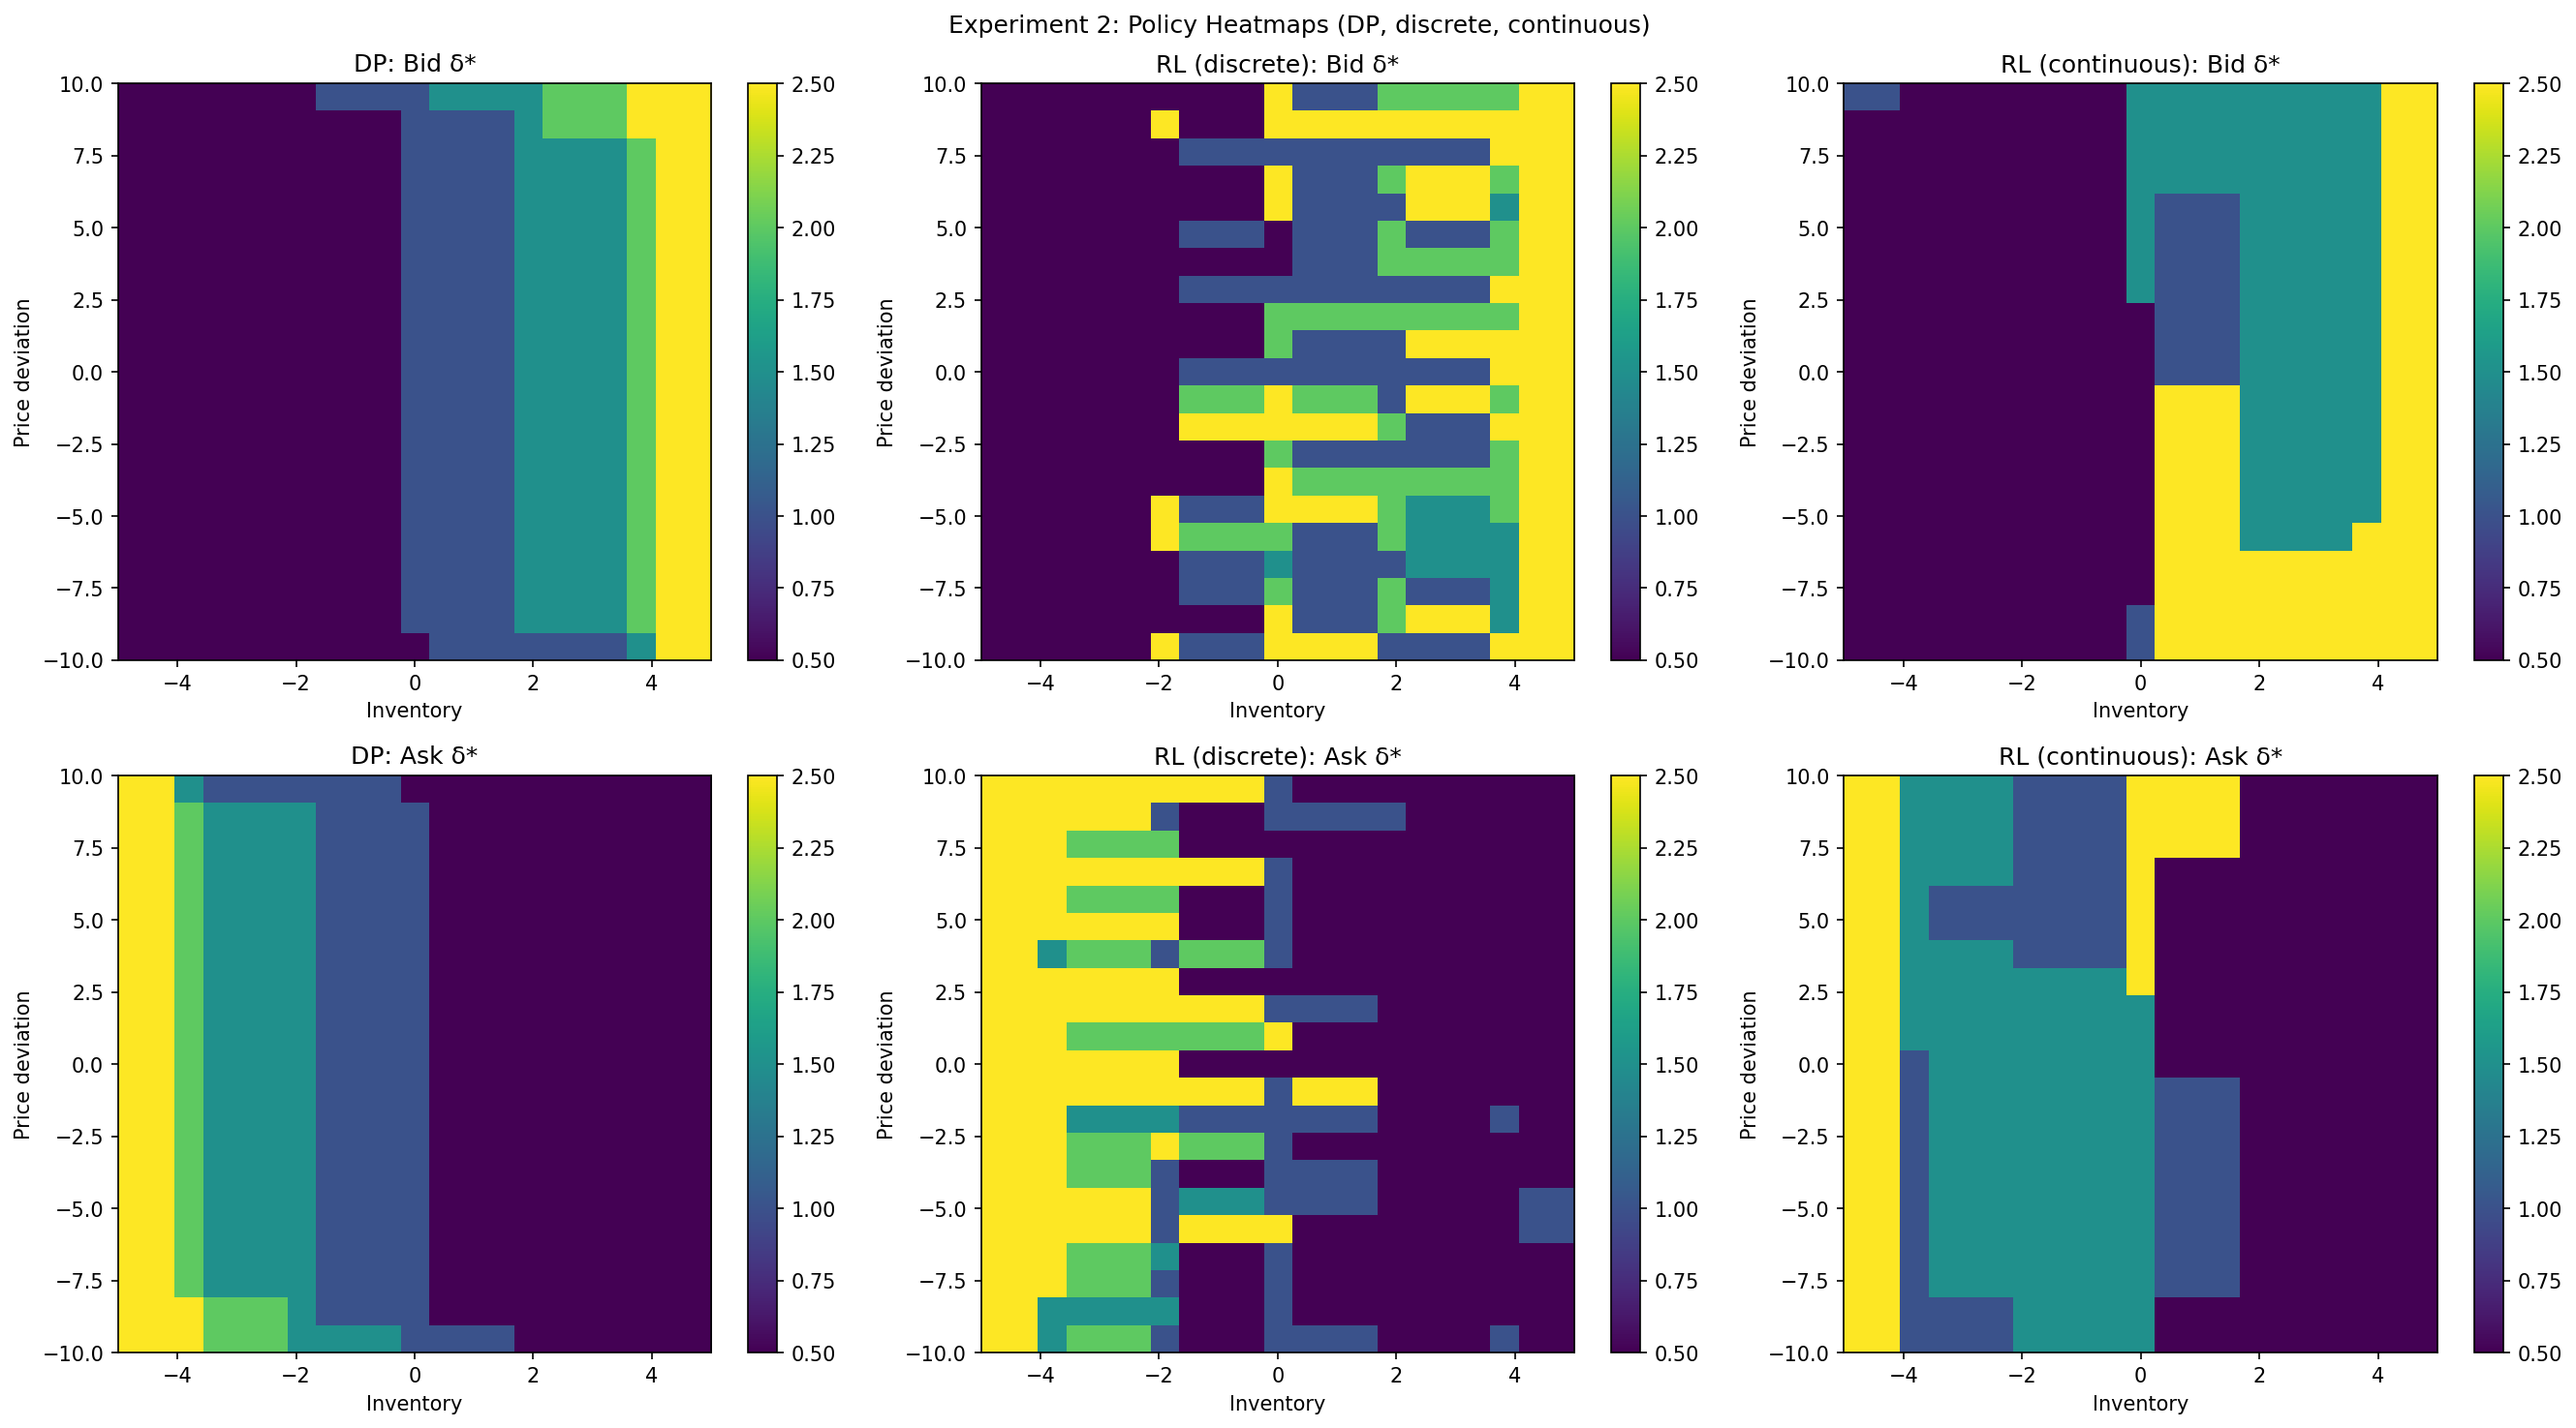
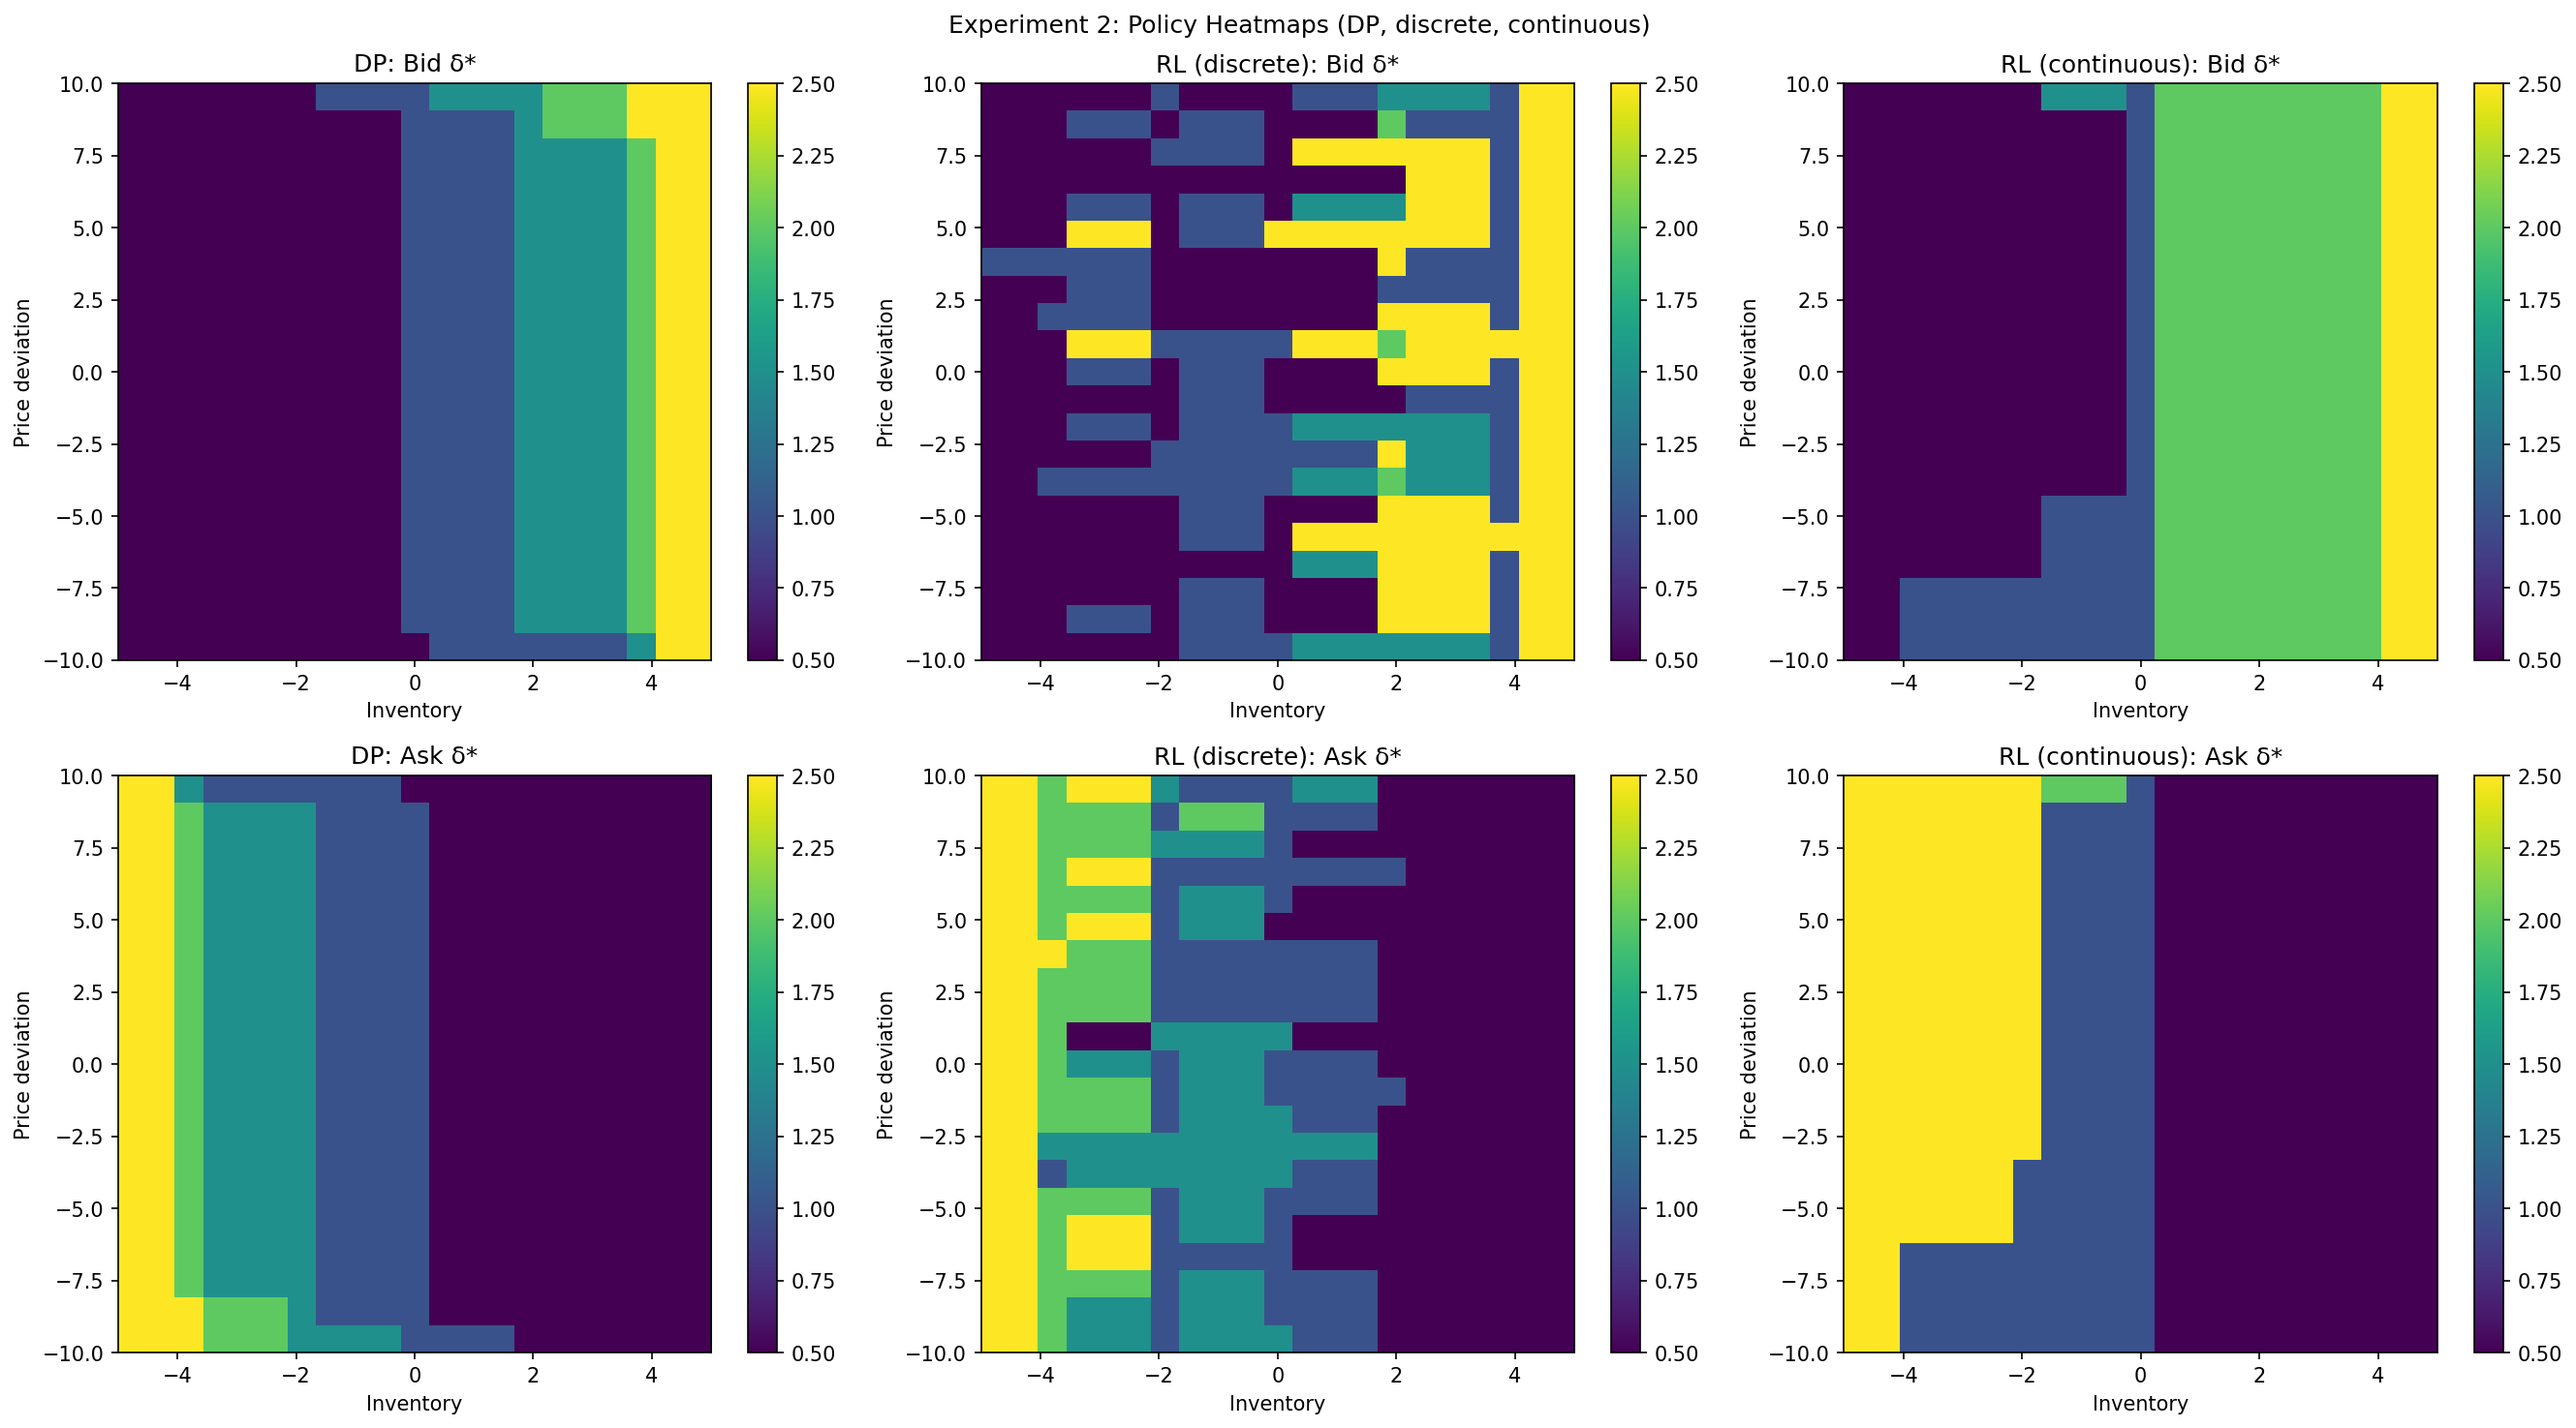
fix: experiment 1 and 2 fixed

diff --git a/project/experiment3.py b/project/experiment3.py
@@ -15,8 +15,8 @@ from market_making.dp_solver import value_iteration_3d, simulate_dp_policy_3d
 from market_making.gpu_config import gpu_batch_size, gpu_hidden_dim, gpu_info
 
 SPREAD_OPTIONS = (0.5, 1.0, 1.5, 2.0, 2.5)
-N_PRICE_BINS = 15
-N_VOL_BINS = 9
+N_PRICE_BINS = 21
+N_VOL_BINS = 15
 PRICE_HALF_RANGE = 10.0
 VOL_LO, VOL_HI = 0.3, 2.0
 PRICE_SCALE = PRICE_HALF_RANGE
@@ -48,16 +48,11 @@ def main():
         n_vol_bins=N_VOL_BINS, vol_lo=VOL_LO, vol_hi=VOL_HI,
     )
 
-    train_params = MarketParams(
-        spread_options=SPREAD_OPTIONS, terminal_penalty=0.0,
-        episode_length=300,
-    )
-
     # ── RL Discrete ────────────────────────────────────────────────────
     print("\n[2/5] Training DQN (discrete state, vectorized) …")
     def _make_env_disc():
         return MarketMakingEnv(
-            train_params, use_volatility_dynamics=True,
+            params, use_volatility_dynamics=True,
             include_price=True, price_scale=PRICE_SCALE,
             discrete_inventory=True, price_grid=price_grid, vol_grid=vol_grid,
             random_init=True, use_continuous_state=False, seed=SEED,
@@ -65,16 +60,16 @@ def main():
     train_env_disc = VecMarketMakingEnv(32, _make_env_disc)
     agent_disc = DQNAgent(
         state_dim=train_env_disc.state_dim, n_actions=train_env_disc.n_actions,
-        lr=2e-4, gamma=train_params.discount, batch_size=BATCH_TRAIN, hidden_dim=HIDDEN_TRAIN,
+        lr=2e-4, gamma=params.discount, batch_size=BATCH_TRAIN, hidden_dim=HIDDEN_TRAIN,
         learning_starts=5_000, tau=0.005, seed=SEED,
     )
-    agent_disc.train(train_env_disc, n_episodes=1000, epsilon_decay_steps=150_000, verbose=True)
+    agent_disc.train(train_env_disc, n_episodes=2000, epsilon_decay_steps=150_000, verbose=True)
 
     # ── RL Continuous ─────────────────────────────────────────────────
     print("\n[3/5] Training DQN (continuous state, vectorized) …")
     def _make_env_cont():
         return MarketMakingEnv(
-            train_params, use_volatility_dynamics=True,
+            params, use_volatility_dynamics=True,
             include_price=True, price_scale=PRICE_SCALE, vol_grid=None,
             discrete_inventory=False, price_grid=None,
             random_init=True, use_continuous_state=True, seed=SEED,
@@ -82,10 +77,10 @@ def main():
     train_env_cont = VecMarketMakingEnv(32, _make_env_cont)
     agent_cont = DQNAgent(
         state_dim=train_env_cont.state_dim, n_actions=train_env_cont.n_actions,
-        lr=2e-4, gamma=train_params.discount, batch_size=BATCH_TRAIN, hidden_dim=HIDDEN_TRAIN,
+        lr=2e-4, gamma=params.discount, batch_size=BATCH_TRAIN, hidden_dim=HIDDEN_TRAIN,
         learning_starts=5_000, tau=0.005, seed=SEED,
     )
-    agent_cont.train(train_env_cont, n_episodes=1000, epsilon_decay_steps=150_000, verbose=True)
+    agent_cont.train(train_env_cont, n_episodes=2000, epsilon_decay_steps=150_000, verbose=True)
 
     # ── Evaluate ───────────────────────────────────────────────────────
     print("\n[4/5] Evaluating (1 000 episodes each) …")

diff --git a/project/experiment2.py b/project/experiment2.py
@@ -54,17 +54,12 @@ def main():
     timings["DP"] = time.perf_counter() - t0
     print(f"  DP converged in {timings['DP']:.1f} s")
 
-    train_params = MarketParams(
-        spread_options=SPREAD_OPTIONS, terminal_penalty=0.0, sigma_base=SIGMA_BASE,
-        episode_length=300,
-    )
-
     # ── RL Discrete ────────────────────────────────────────────────────
     print("\n[2/5] Training DQN (discrete state, vectorized) …")
     t0 = time.perf_counter()
     def _make_env_disc():
         return MarketMakingEnv(
-            train_params, use_volatility_dynamics=False,
+            params, use_volatility_dynamics=False,
             include_price=True, price_scale=PRICE_SCALE,
             discrete_inventory=True, price_grid=price_grid,
             random_init=True, use_continuous_state=False, seed=SEED,
@@ -72,7 +67,7 @@ def main():
     train_env_disc = VecMarketMakingEnv(32, _make_env_disc)
     agent_disc = DQNAgent(
         state_dim=train_env_disc.state_dim, n_actions=train_env_disc.n_actions,
-        lr=2e-4, gamma=train_params.discount, batch_size=BATCH_TRAIN, hidden_dim=HIDDEN_TRAIN,
+        lr=2e-4, gamma=params.discount, batch_size=BATCH_TRAIN, hidden_dim=HIDDEN_TRAIN,
         learning_starts=5_000, tau=0.005, seed=SEED,
         use_prioritized_replay=True, rare_priority=3.0,
     )
@@ -88,7 +83,7 @@ def main():
     t0 = time.perf_counter()
     def _make_env_cont():
         return MarketMakingEnv(
-            train_params, use_volatility_dynamics=False,
+            params, use_volatility_dynamics=False,
             include_price=True, price_scale=PRICE_SCALE,
             discrete_inventory=True, price_grid=price_grid,
             random_init=True, use_continuous_state=True, seed=SEED,
@@ -96,7 +91,7 @@ def main():
     train_env_cont = VecMarketMakingEnv(32, _make_env_cont)
     agent_cont = DQNAgent(
         state_dim=train_env_cont.state_dim, n_actions=train_env_cont.n_actions,
-        lr=2e-4, gamma=train_params.discount, batch_size=BATCH_TRAIN, hidden_dim=HIDDEN_TRAIN,
+        lr=2e-4, gamma=params.discount, batch_size=BATCH_TRAIN, hidden_dim=HIDDEN_TRAIN,
         learning_starts=5_000, tau=0.005, seed=SEED,
         use_prioritized_replay=True, rare_priority=3.0,
     )

diff --git a/project/experiment1.py b/project/experiment1.py
@@ -39,28 +39,21 @@ def main():
     print("\n[1/3] DP value iteration …")
     V_dp, policy_dp = value_iteration(params)
 
-    train_params = MarketParams(
-        spread_options=SPREAD_OPTIONS,
-        terminal_penalty=0.0,
-        sigma_base=SIGMA_BASE,
-        episode_length=300,
-    )
-
     # ── RL Discrete ────────────────────────────────────────────────────
     print("\n[2/3] Training DQN (discrete state, vectorized) …")
     def _make_env_disc():
         return MarketMakingEnv(
-            train_params, use_volatility_dynamics=False,
+            params, use_volatility_dynamics=False,
             include_price=False, discrete_inventory=True,
             random_init=True, use_continuous_state=False, seed=SEED,
         )
     train_env_disc = VecMarketMakingEnv(32, _make_env_disc)
     agent_disc = DQNAgent(
         state_dim=train_env_disc.state_dim, n_actions=train_env_disc.n_actions,
-        lr=2e-4, gamma=train_params.discount, batch_size=BATCH_TRAIN, hidden_dim=HIDDEN_TRAIN,
+        lr=2e-4, gamma=params.discount, batch_size=BATCH_TRAIN, hidden_dim=HIDDEN_TRAIN,
         learning_starts=5_000, tau=0.005, seed=SEED,
     )
-    agent_disc.train(train_env_disc, n_episodes=500, epsilon_decay_steps=150_000, verbose=True)
+    agent_disc.train(train_env_disc, n_episodes=1000, epsilon_decay_steps=150_000, verbose=True)
 
     # ── Evaluate ───────────────────────────────────────────────────────
     print("\n[3/3] Evaluating (1 000 episodes each) …")

diff --git a/project/market_making/params.py b/project/market_making/params.py
@@ -59,7 +59,7 @@ class MarketParams:
     spread_options: Tuple[float, ...] = (0.5, 1.0, 1.5, 2.0, 2.5)
 
     # ── Episode / discount ───────────────────────────────────────────
-    episode_length: int = 200
+    episode_length: int = 500
     discount: float = 0.99
 
     # ── Derived helpers ──────────────────────────────────────────────

diff --git a/results/exp2_table.tex b/results/exp2_table.tex
@@ -1,0 +1,13 @@
+\begin{table}[h]
+\centering
+\begin{tabular}{lrrr}
+\toprule
+Metric & DP & RL (discrete) & RL (continuous) \\
+\midrule
+Mean Reward & 82.51 & 66.93 & 78.14 \\
+Std Reward & 10.53 & 12.38 & 9.80 \\
+\bottomrule
+\end{tabular}
+\caption{Experiment 2 (inventory + price state): mean and standard deviation of episode reward over 1\,000 evaluation episodes. DP is optimal for the discretised MDP. RL (discrete) uses the same binned state; RL (continuous) uses the exact price.}
+\label{tab:exp2}
+\end{table}

diff --git a/results/exp1_table.tex b/results/exp1_table.tex
@@ -1,0 +1,13 @@
+\begin{table}[h]
+\centering
+\begin{tabular}{lrr}
+\toprule
+Metric & DP & RL (discrete) \\
+\midrule
+Mean Reward & 82.68 & 74.20 \\
+Std Reward & 10.23 & 11.40 \\
+\bottomrule
+\end{tabular}
+\caption{Experiment 1 (inventory-only state): mean and standard deviation of episode reward over 1\,000 evaluation episodes. DP is optimal for the discrete MDP and provides an upper bound for RL (discrete).}
+\label{tab:exp1}
+\end{table}

diff --git a/project/market_making/dqn_agent.py b/project/market_making/dqn_agent.py
@@ -128,6 +128,7 @@ class DQNAgent:
         if seed is not None:
             torch.manual_seed(seed)
             random.seed(seed)
+            np.random.seed(seed)
 
         self.n_actions = n_actions
         self.gamma = gamma
